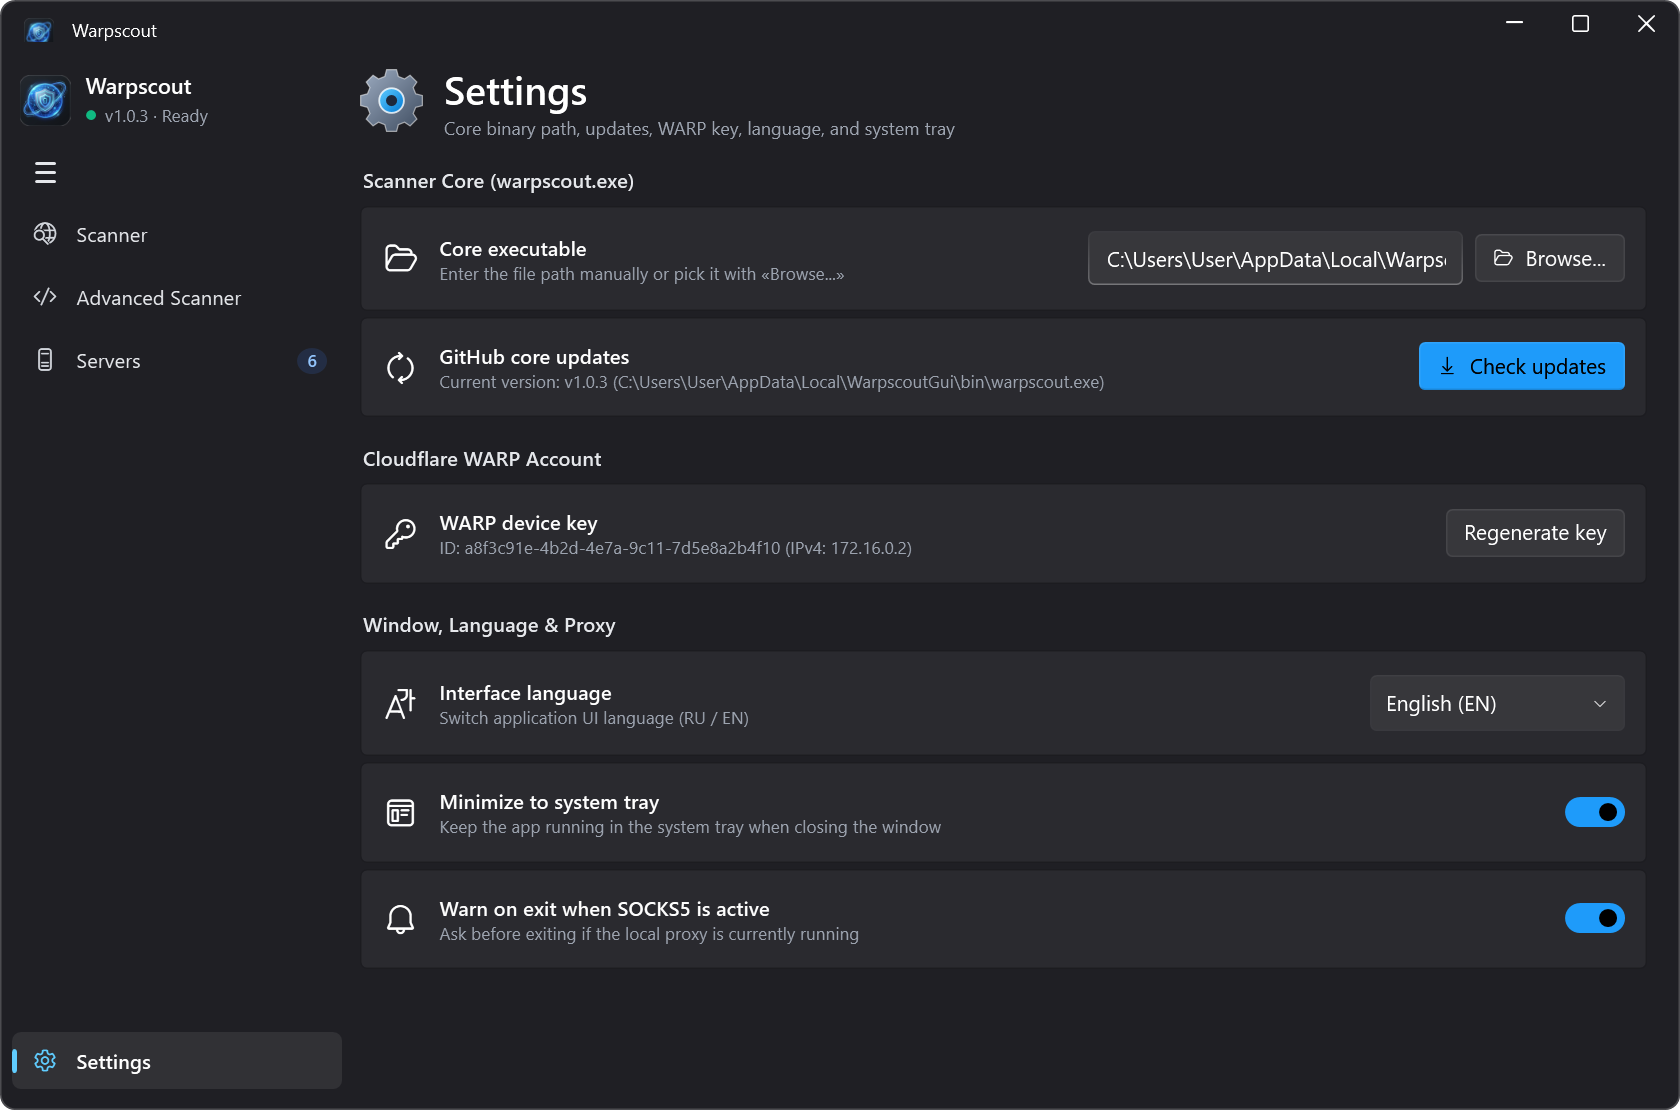
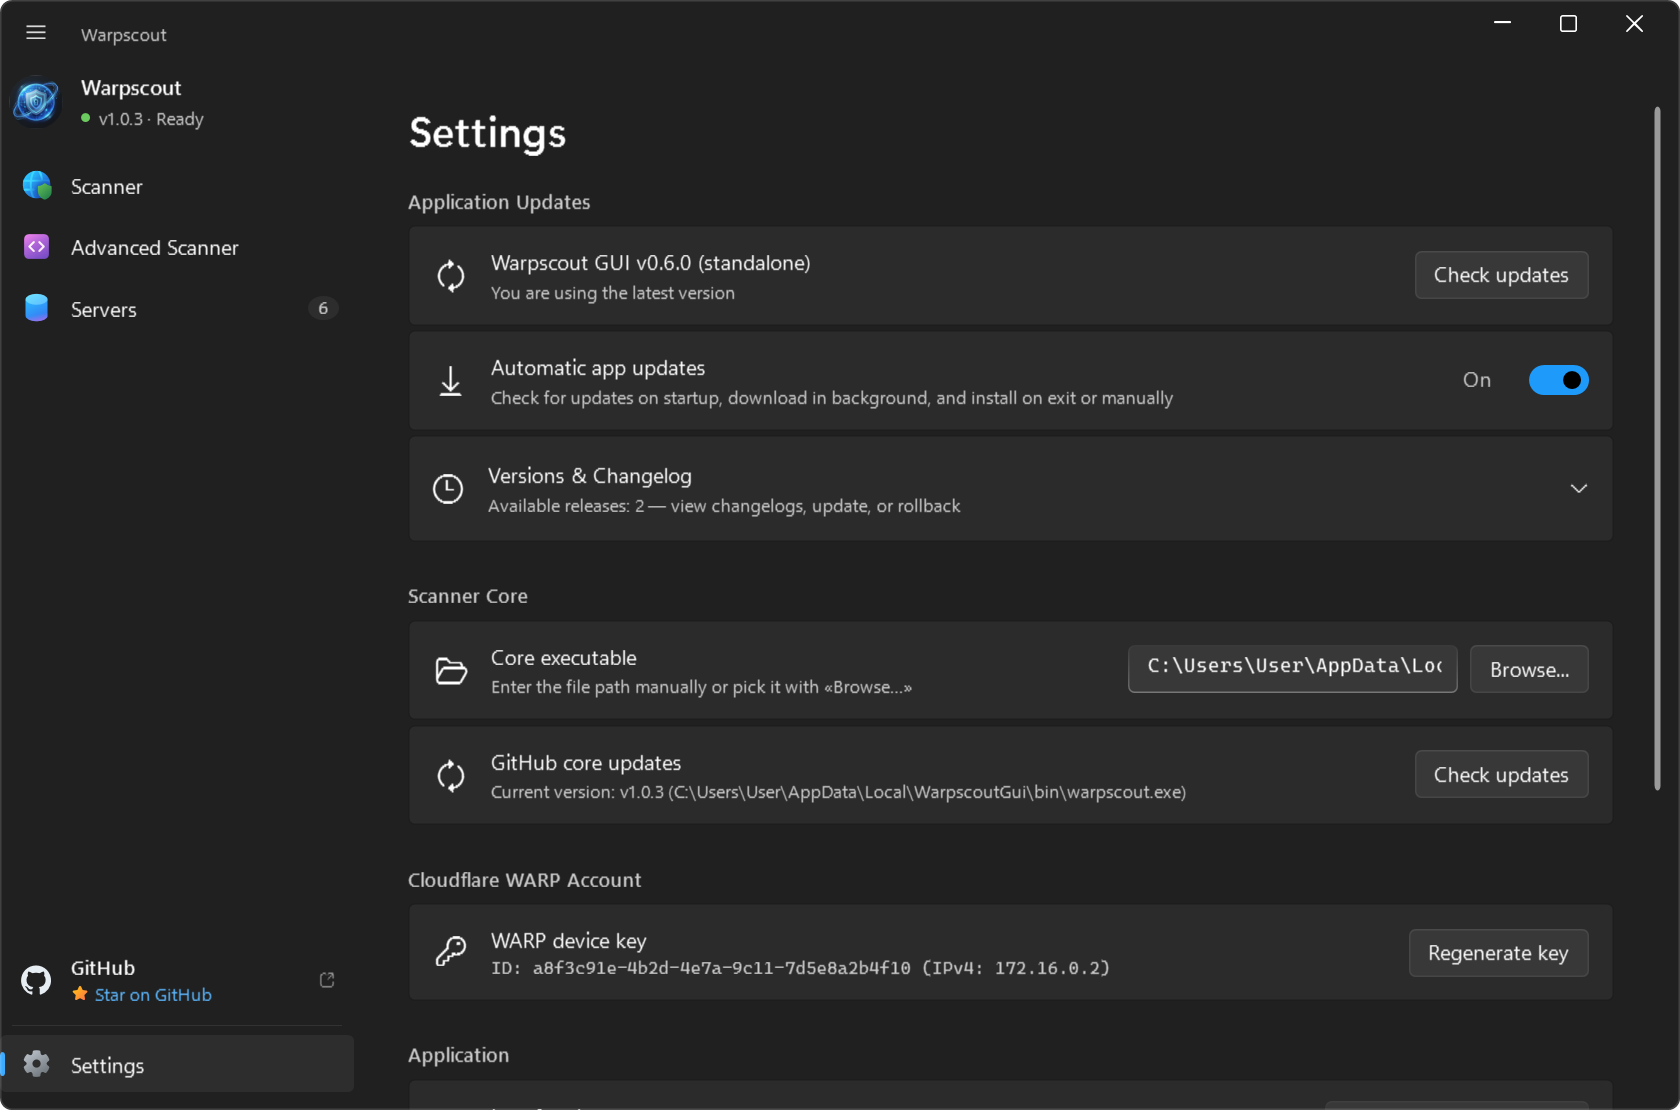
docs: refresh READMEs, badges, credits, and Fluent 2 screenshots

diff --git a/README.md b/README.md
@@ -1,45 +1,93 @@
-# Warpscout GUI Windows
+<div align="center">
 
-**Нативное десктопное приложение для Windows 10/11 для сканера [warpscout](https://github.com/vernette/warpscout) на .NET 8 WPF + WPF-UI.**
+<img src="Assets/app.png" width="84" alt="Warpscout GUI" />
 
-[English Documentation](README_EN.md)
+<h1>Warpscout GUI</h1>
+
+<p>Нативное десктопное приложение Windows 10/11 (Fluent 2 / Mica) для сканера <a href="https://github.com/vernette/warpscout">warpscout</a>.</p>
+
+<p>
+  <a href="https://github.com/HattabbI4/warpscout-gui/releases/latest"><img src="https://img.shields.io/github/v/release/HattabbI4/warpscout-gui?style=flat-square&label=Release" alt="Latest Release" /></a>
+  <a href="https://github.com/HattabbI4/warpscout-gui/releases"><img src="https://img.shields.io/github/downloads/HattabbI4/warpscout-gui/total?style=flat-square&label=Downloads" alt="Total Downloads" /></a>
+  <a href="https://github.com/HattabbI4/warpscout-gui/actions/workflows/ci.yaml"><img src="https://img.shields.io/github/actions/workflow/status/HattabbI4/warpscout-gui/ci.yaml?branch=master&style=flat-square&label=CI" alt="CI Status" /></a>
+  <img src="https://img.shields.io/badge/Windows-10%2F11%20x64-0078D6?style=flat-square" alt="Windows 10/11 x64" />
+  <img src="https://img.shields.io/badge/.NET-8.0-512BD4?style=flat-square&logo=dotnet" alt=".NET 8.0" />
+  <a href="LICENSE"><img src="https://img.shields.io/github/license/HattabbI4/warpscout-gui?style=flat-square&label=License" alt="License" /></a>
+</p>
+
+<p>
+  <strong>Русский</strong> · <a href="README_EN.md">English</a>
+</p>
+
+</div>
+
+---
 
 ## Возможности
 
-- **Нативный интерфейс Windows 10/11 (Fluent 2 / Mica):** системный фон Mica, тёмная тема Windows 11 и нативные контролы [WPF-UI](https://github.com/lepoco/wpfui).
-- **Управление ядром `warpscout.exe`:**
-  - Выбор файла ядра в **Настройках**.
-  - При первом запуске приложение автоматически скачает актуальное ядро `warpscout.exe` из релизов [vernette/warpscout](https://github.com/vernette/warpscout).
-- **Поиск серверов в 1 клик:** потоковая таблица для **AmneziaWG**, **AmneziaWG 3.1** (`padding`, тайминги, `random-trailers`, `disable-cookies`), **WireGuard**, **MASQUE** и **MASQUE H2** с замером пинга внутри туннеля.
-- **Быстрые действия и трей:** скачивание готового `.conf` / `.json`, включение локального SOCKS5-прокси `127.0.0.1:1080`, сворачивание в системный трей и предупреждение при выходе с активным прокси (с запоминанием выбора).
+- **Нативный интерфейс Windows 11 (Fluent 2 / Mica):** системный фон Mica, тёмная тема, сворачиваемое боковое меню и переключение языка интерфейса (`RU` / `EN`) на базе [WPF-UI](https://github.com/lepoco/wpfui).
+- **Управление ядром `warpscout.exe` и аккаунтом WARP:**
+  - Автоматическая загрузка и обновление `warpscout.exe` из релизов [vernette/warpscout](https://github.com/vernette/warpscout) при первом запуске.
+  - Возможность указать собственный путь к исполняемому файлу в **Настройках**.
+  - Автоматическая регистрация аккаунта Cloudflare WARP и пересоздание ключа устройства в 1 клик.
+- **Сканер в 1 клик и продвинутый режим:**
+  - Поддержка **AmneziaWG**, **AmneziaWG 3.1** (`padding`, тайминги рукопожатия, `random-trailers`, `disable-cookies`), **WireGuard**, **MASQUE (QUIC)** и **MASQUE H2 (TCP)**.
+  - Исключение узлов Cloudflare (например, `DME`), замер реального пинга внутри туннеля (`-P`), полное сканирование подсетей (`-f`) и тест скорости (`-speed`).
+  - Отдельная вкладка **Продвинутый сканер** для запуска `warpscout scan` с произвольными CLI-флагами.
+- **Серверы, конфиги и локальный прокси:** потоковая таблица рабочих серверов с выделением лучшего эндпоинта, копирование адреса по клику, экспорт готовых `.conf` / `.json` конфигураций, встроенный локальный SOCKS5-прокси `127.0.0.1:1080`, сворачивание в системный трей и настраиваемое предупреждение при выходе с активным прокси.
+- **Встроенное автообновление GUI:** проверка релизов на GitHub, фоновая загрузка с проверкой контрольной суммы SHA-256, просмотр списка изменений и откат на предыдущие версии (начиная с `v0.5.0`).
 
 ## Скриншоты
 
-![Сканер серверов](docs/screenshots/scanner-ru.png)
+| Сканер серверов | Продвинутый сканер |
+| :---: | :---: |
+| ![Сканер серверов](docs/screenshots/scanner-ru.png) | ![Продвинутый сканер](docs/screenshots/advanced-ru.png) |
+
+| Рабочие серверы и SOCKS5-прокси | Настройки и автообновление |
+| :---: | :---: |
+| ![Таблица рабочих серверов и локальный SOCKS5-прокси](docs/screenshots/servers-ru.png) | ![Настройки и менеджер обновлений](docs/screenshots/settings-ru.png) |
+
+<details>
+<summary>Сканер серверов со свёрнутым боковым меню</summary>
 
 ![Сканер серверов со свёрнутым меню](docs/screenshots/scanner-collapsed-ru.png)
 
-![Таблица найденных серверов и локальный SOCKS5-прокси](docs/screenshots/servers-ru.png)
-
-![Настройки](docs/screenshots/settings-ru.png)
+</details>
 
 ## Установка
 
-Скачайте подходящую сборку со страницы [Releases](https://github.com/HattabbI4/warpscout-gui/releases):
+Скачайте нужную сборку со страницы [Releases](https://github.com/HattabbI4/warpscout-gui/releases):
 
-- **`warpscout-gui_<версия>_windows_amd64_standalone.exe`** — автономная версия со встроенными библиотеками .NET 8 (~66 МБ). Запускается сразу на любой Windows 10/11 (x64) без дополнительной настройки.
-- **`warpscout-gui_<версия>_windows_amd64_lite.exe`** — облегчённая версия без встроенных библиотек (~6 МБ). Требует установленного [.NET 8 Desktop Runtime (x64)](https://dotnet.microsoft.com/en-us/download/dotnet/8.0).
+| Сборка | Файл | Размер | Требования |
+| --- | --- | --- | --- |
+| **Standalone** | `warpscout-gui_<версия>_windows_amd64_standalone.exe` | ~66 МБ | Windows 10/11 (x64), ничего устанавливать не нужно |
+| **Lite** | `warpscout-gui_<версия>_windows_amd64_lite.exe` | ~6 МБ | Windows 10/11 (x64) + [.NET 8 Desktop Runtime (x64)](https://dotnet.microsoft.com/en-us/download/dotnet/8.0) |
 
+> При первом запуске приложение автоматически загрузит актуальное ядро `warpscout.exe`. Встроенный менеджер обновлений позволяет обновлять саму оболочку и ядро прямо из вкладки **Настройки**.
 
+## Сборка из исходников
 
-## Сборка (Windows 10/11)
-
-Требуется .NET 8 SDK.
+Требуются Windows 10/11 и [.NET 8 SDK](https://dotnet.microsoft.com/en-us/download/dotnet/8.0).
 
 ```powershell
-# Быстрая сборка одним exe (если на ПК установлен .NET 8 Desktop Runtime)
+git clone https://github.com/HattabbI4/warpscout-gui.git
+cd warpscout-gui
+
+# Запуск модульных тестов
+dotnet test WarpscoutGui.Tests/WarpscoutGui.Tests.csproj -c Release
+
+# Облегчённый single-file exe (требует установленный .NET 8 Desktop Runtime)
 dotnet publish -c Release -r win-x64 --self-contained false -p:PublishSingleFile=true -o publish
 
-# Полностью автономный exe (не требует установленного .NET 8 на целевом ПК)
+# Автономный single-file exe (не требует .NET 8 на целевом ПК)
 dotnet publish -c Release -r win-x64 --self-contained true -p:PublishSingleFile=true -p:IncludeNativeLibrariesForSelfExtract=true -p:EnableCompressionInSingleFile=true -o publish
 ```
+
+## Лицензия
+
+Проект распространяется под лицензией MIT — подробности см. в файле [LICENSE](LICENSE).
+
+## Credits
+
+- [vernette/warpscout](https://github.com/vernette/warpscout) — CLI-ядро сканера WARP, генерация конфигов и локальный SOCKS5-прокси.
+- [lepoco/wpfui](https://github.com/lepoco/wpfui) — библиотека WPF-UI для нативных компонентов Fluent Design 2 и эффекта Mica.

diff --git a/README_EN.md b/README_EN.md
@@ -1,43 +1,93 @@
-# Warpscout GUI for Windows
+<div align="center">
 
-**A native Windows 10/11 desktop client for the [warpscout](https://github.com/vernette/warpscout) scanner, built with .NET 8 WPF and WPF-UI.**
+<img src="Assets/app.png" width="84" alt="Warpscout GUI" />
 
-[Русская документация](README.md)
+<h1>Warpscout GUI</h1>
+
+<p>A native Windows 10/11 desktop client (Fluent 2 / Mica) for the <a href="https://github.com/vernette/warpscout">warpscout</a> scanner.</p>
+
+<p>
+  <a href="https://github.com/HattabbI4/warpscout-gui/releases/latest"><img src="https://img.shields.io/github/v/release/HattabbI4/warpscout-gui?style=flat-square&label=Release" alt="Latest Release" /></a>
+  <a href="https://github.com/HattabbI4/warpscout-gui/releases"><img src="https://img.shields.io/github/downloads/HattabbI4/warpscout-gui/total?style=flat-square&label=Downloads" alt="Total Downloads" /></a>
+  <a href="https://github.com/HattabbI4/warpscout-gui/actions/workflows/ci.yaml"><img src="https://img.shields.io/github/actions/workflow/status/HattabbI4/warpscout-gui/ci.yaml?branch=master&style=flat-square&label=CI" alt="CI Status" /></a>
+  <img src="https://img.shields.io/badge/Windows-10%2F11%20x64-0078D6?style=flat-square" alt="Windows 10/11 x64" />
+  <img src="https://img.shields.io/badge/.NET-8.0-512BD4?style=flat-square&logo=dotnet" alt=".NET 8.0" />
+  <a href="LICENSE"><img src="https://img.shields.io/github/license/HattabbI4/warpscout-gui?style=flat-square&label=License" alt="License" /></a>
+</p>
+
+<p>
+  <a href="README.md">Русский</a> · <strong>English</strong>
+</p>
+
+</div>
+
+---
 
 ## Features
 
-- **Native Windows 10/11 UI (Fluent 2 / Mica):** Windows 11 Mica backdrop, dark theme, and native controls powered by [WPF-UI](https://github.com/lepoco/wpfui).
-- **`warpscout.exe` Core Management:**
-  - Pick or override the core executable path right in **Settings**.
-  - On first launch, the app automatically fetches the latest `warpscout.exe` binary from [vernette/warpscout](https://github.com/vernette/warpscout) releases.
-- **One-Click Server Discovery:** Live-streaming endpoint table for **AmneziaWG**, **AmneziaWG 3.1** (`padding`, timings, `random-trailers`, `disable-cookies`), **WireGuard**, **MASQUE**, and **MASQUE H2**, complete with in-tunnel latency checks.
-- **Quick Actions & System Tray:** Export ready-to-use `.conf` / `.json` configs, toggle a local SOCKS5 proxy on `127.0.0.1:1080`, minimize to the system tray, and confirm exit when the proxy is active (with an option to remember your choice).
+- **Native Windows 11 UI (Fluent 2 / Mica):** Windows 11 Mica backdrop, dark theme, collapsible sidebar, and instant `RU` / `EN` language switching powered by [WPF-UI](https://github.com/lepoco/wpfui).
+- **`warpscout.exe` Core & WARP Account Management:**
+  - Automatically downloads and updates `warpscout.exe` from [vernette/warpscout](https://github.com/vernette/warpscout) releases on first launch.
+  - Supports overriding or picking a custom core binary path in **Settings**.
+  - Automatic Cloudflare WARP account registration and one-click device key regeneration.
+- **One-Click & Advanced Scanning:**
+  - Supports **AmneziaWG**, **AmneziaWG 3.1** (`padding`, handshake timings, `random-trailers`, `disable-cookies`), **WireGuard**, **MASQUE (QUIC)**, and **MASQUE H2 (TCP)**.
+  - Configurable Cloudflare node exclusion (e.g., `DME`), in-tunnel ping verification (`-P`), full subnet scanning (`-f`), and speed testing (`-speed`).
+  - Dedicated **Advanced Scanner** tab for passing custom CLI flags directly to `warpscout scan`.
+- **Servers, Config Export & Local Proxy:** Live-streaming endpoint table highlighting the best server, click-to-copy addresses, `.conf` / `.json` config export, built-in local SOCKS5 proxy on `127.0.0.1:1080`, system tray minimization, and configurable exit confirmation while the proxy is active.
+- **Built-in App Auto-Updater:** Checks GitHub Releases for updates, downloads in the background with SHA-256 verification, displays localized release notes, and supports rollback to previous versions (`v0.5.0`+).
 
 ## Screenshots
 
-![Server Scanner](docs/screenshots/scanner-en.png)
+| Server Scanner | Advanced Scanner |
+| :---: | :---: |
+| ![Server Scanner](docs/screenshots/scanner-en.png) | ![Advanced Scanner](docs/screenshots/advanced-en.png) |
+
+| Working Servers & SOCKS5 Proxy | Settings & Updates |
+| :---: | :---: |
+| ![Working Servers and Local SOCKS5 Proxy](docs/screenshots/servers-en.png) | ![Settings and Application Updates](docs/screenshots/settings-en.png) |
+
+<details>
+<summary>Server Scanner with collapsed sidebar</summary>
 
 ![Server Scanner with collapsed sidebar](docs/screenshots/scanner-collapsed-en.png)
 
-![Discovered Servers and Local SOCKS5 Proxy](docs/screenshots/servers-en.png)
-
-![Settings](docs/screenshots/settings-en.png)
+</details>
 
 ## Installation
 
-Grab the right build from the [Releases](https://github.com/HattabbI4/warpscout-gui/releases) page:
+Download the build that fits your setup from [Releases](https://github.com/HattabbI4/warpscout-gui/releases):
 
-- **`warpscout-gui_<version>_windows_amd64_standalone.exe`** — self-contained build bundled with the .NET 8 runtime (~66 MB). Runs out of the box on any Windows 10/11 (x64) machine with zero prerequisites.
-- **`warpscout-gui_<version>_windows_amd64_lite.exe`** — framework-dependent build (~6 MB). Requires the [.NET 8 Desktop Runtime (x64)](https://dotnet.microsoft.com/en-us/download/dotnet/8.0) installed on your system.
+| Build | Asset | Size | Requirements |
+| --- | --- | --- | --- |
+| **Standalone** | `warpscout-gui_<version>_windows_amd64_standalone.exe` | ~66 MB | Windows 10/11 (x64), zero prerequisites |
+| **Lite** | `warpscout-gui_<version>_windows_amd64_lite.exe` | ~6 MB | Windows 10/11 (x64) + [.NET 8 Desktop Runtime (x64)](https://dotnet.microsoft.com/en-us/download/dotnet/8.0) |
 
-## Building from Source (Windows 10/11)
+> On first launch, the app automatically fetches the latest `warpscout.exe` core. Both the GUI and the core can be updated directly from **Settings**.
 
-Requires the .NET 8 SDK.
+## Building from Source
+
+Requires Windows 10/11 and the [.NET 8 SDK](https://dotnet.microsoft.com/en-us/download/dotnet/8.0).
 
 ```powershell
+git clone https://github.com/HattabbI4/warpscout-gui.git
+cd warpscout-gui
+
+# Run unit tests
+dotnet test WarpscoutGui.Tests/WarpscoutGui.Tests.csproj -c Release
+
 # Framework-dependent single-file build (requires .NET 8 Desktop Runtime installed)
 dotnet publish -c Release -r win-x64 --self-contained false -p:PublishSingleFile=true -o publish
 
 # Self-contained single-file build (runs on any Windows 10/11 PC without .NET installed)
 dotnet publish -c Release -r win-x64 --self-contained true -p:PublishSingleFile=true -p:IncludeNativeLibrariesForSelfExtract=true -p:EnableCompressionInSingleFile=true -o publish
 ```
+
+## License
+
+Licensed under the MIT License — see [LICENSE](LICENSE) for details.
+
+## Credits
+
+- [vernette/warpscout](https://github.com/vernette/warpscout) — CLI scanner core for WARP endpoint discovery, config export, and local SOCKS5 proxying.
+- [lepoco/wpfui](https://github.com/lepoco/wpfui) — WPF-UI library providing Windows 11 Fluent Design 2 controls and Mica backdrop support.
